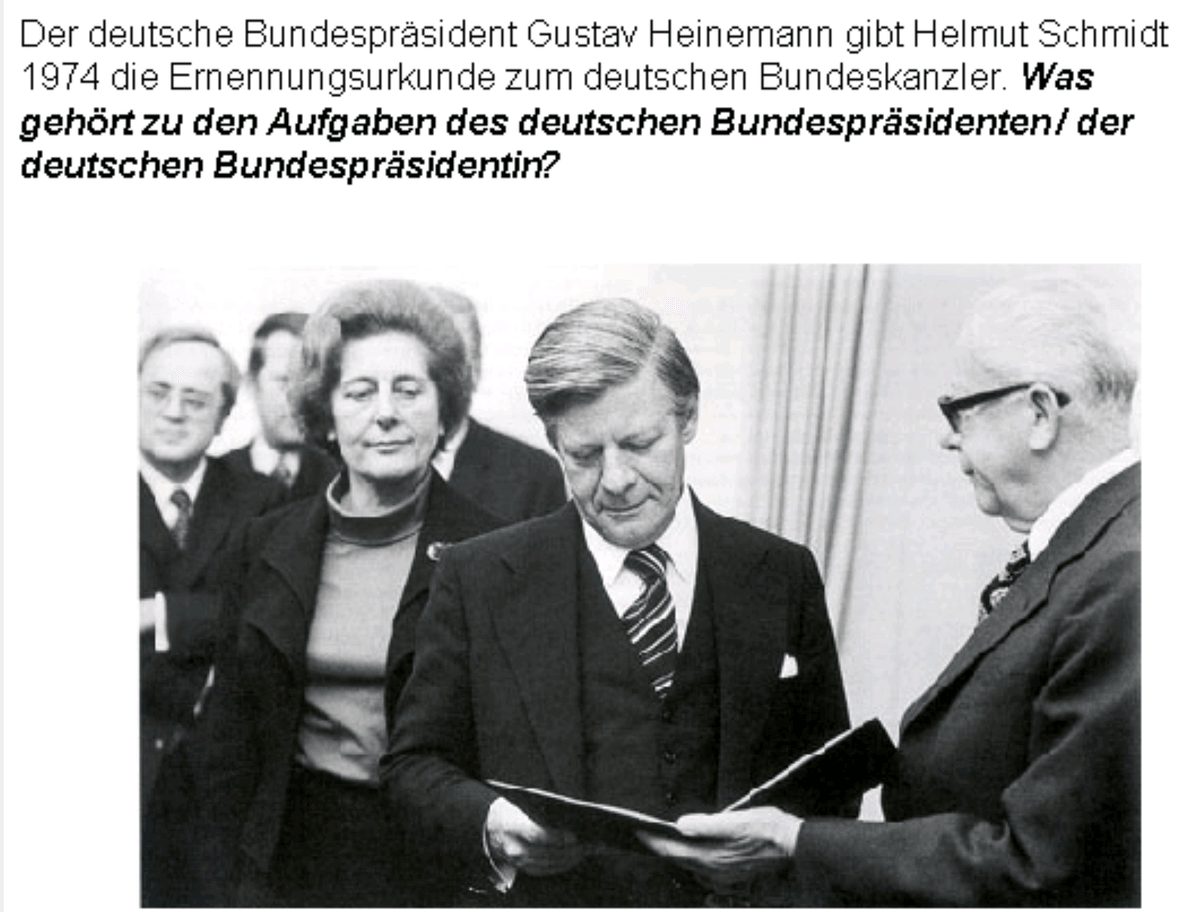
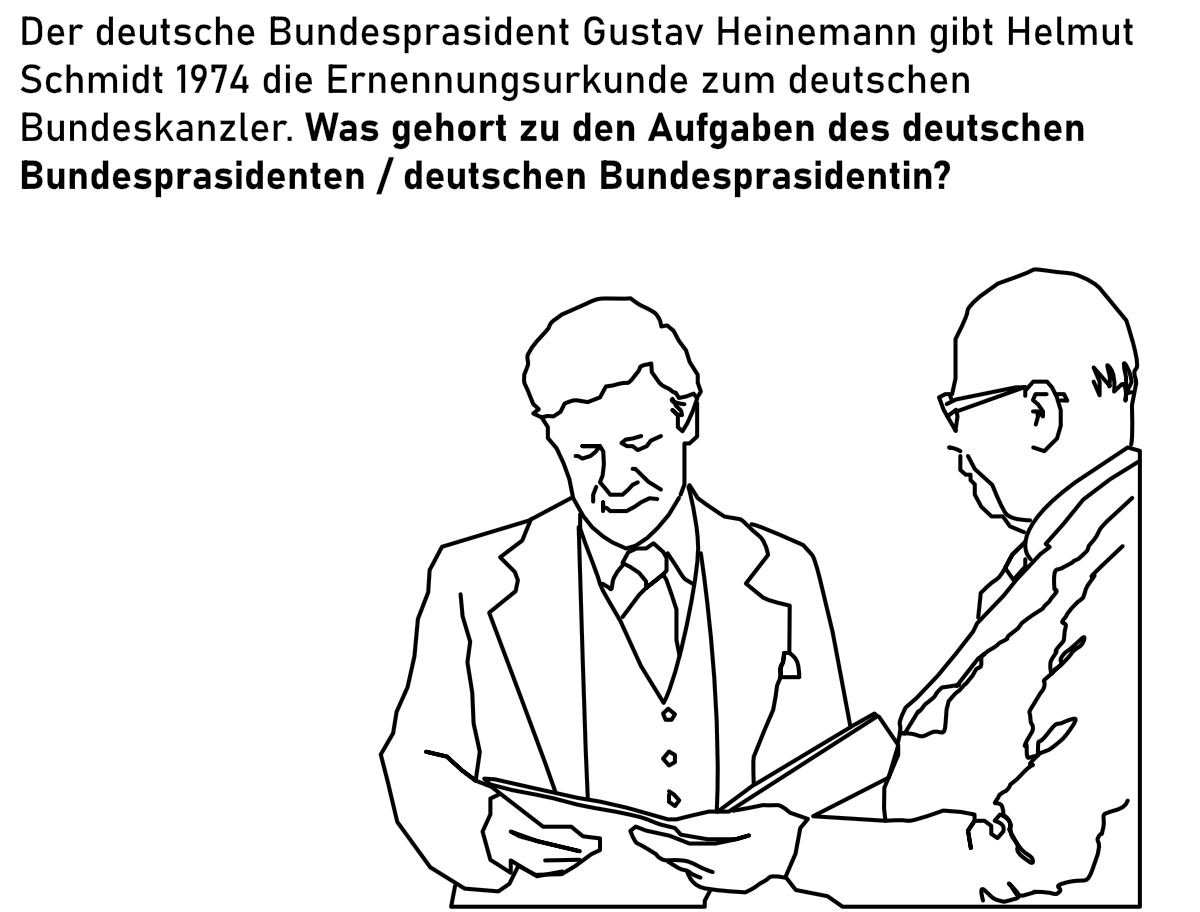
Replace B070 image with corrected redraw

diff --git a/README.md b/README.md
@@ -38,7 +38,7 @@ No web server is required; `data/questions.js`, `data/vocabulary.js` and `data/i
[1 lines of base64/hex data omitted]
   <https://www.bamf.de/SharedDocs/Anlagen/DE/Integration/Einbuergerung/gesamtfragenkatalog-lebenindeutschland.html?nn=284310>
 - **Answers, English translations, explanations and images**: [abdullahbutt/leben-in-deutschland-test](https://github.com/abdullahbutt/leben-in-deutschland-test), version 2026-10-28. **The German question and option wording is taken verbatim from the official BAMF PDF**; the dataset supplies the answer key, English translations, explanations and images. The translations and explanations are licensed under **CC BY-NC 4.0** (attribution, non-commercial use). `data/overrides.json` contains manual corrections for the few items where the dataset described a different paraphrase (e.g. B232, B247, HB02, SN07).
-- **B021 and B055 images**: `data/images/21.png` and `data/images/55.png` are redrawn replacements added for this project; the remaining images come from the dataset.
+- **B021, B055 and B070 images**: `data/images/21.png`, `data/images/55.png` and `data/images/70.png` are redrawn replacements added for this project; the remaining images come from the dataset.
 - This is an independent learning app, not an official BAMF product. Use is intended for personal, non-commercial exam preparation.
 
 ## Project layout
